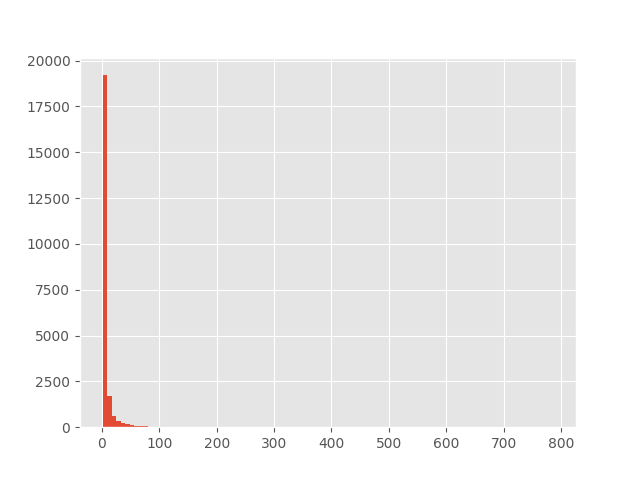
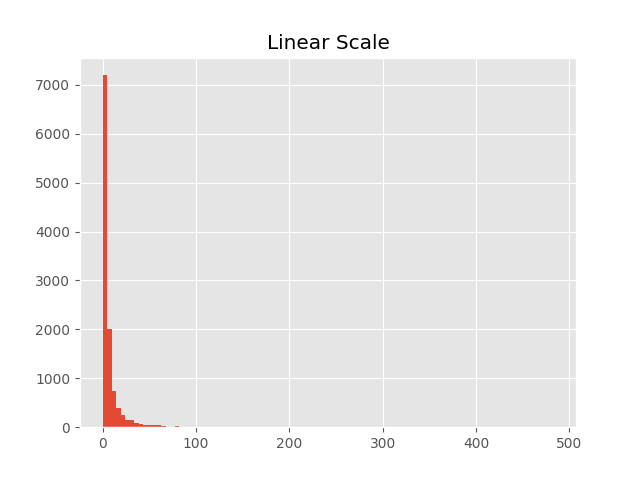
pruning for legit genres, added deg distribution graphs

diff --git a/na_spotify_project/scripts/basic_stats.py b/na_spotify_project/scripts/basic_stats.py
@@ -27,35 +27,65 @@ def degree_distribution_plotter(graph_object):
     plt.style.use('ggplot')
     fig1, axes1 = plt.subplots()
     axes1.hist(degrees_array, bins = 100)
+    axes1.set_title("Linear Scale")
     fig1.savefig("degree_hist.png")
 
     # some basic stats
+    print(f"number of nodes:\tN = {len(graph_object.nodes())}")
     print(f"average degree:\t\tk = {degrees_array.mean()}")
     print(f"number of edges:\tE = {degrees_array.mean() * len(degrees_array) / 2}")
     print(f"max degree:\t\tmax k = {degrees_array.max()}")
     print(f"min degree:\t\tmin k = {degrees_array.min()}")
     print(f"median degree: \t\tmedian k = {np.median(degrees_array)}")
 
-    # build list for degree distribution
+    # build list for cummulative degree distribution
     element_counter = collections.Counter(degrees_array)
     degrees_count_array = np.zeros(degrees_array.max()+1, dtype = 'float64')
     for key, value in element_counter.items():
         degrees_count_array[key] = value
     array_for_log_log_plot = np.flip(np.cumsum(np.flip(degrees_count_array[1:])) / np.sum(degrees_count_array))
-    #print(array_for_log_log_plot)
 
+    # build similar powerlaw
+    # build and plot degree distribution 
+    x = []
+    y = []
+    ordered_count_dict = collections.OrderedDict(sorted(element_counter.items()))
+    for key, value in ordered_count_dict.items():
+        x.append(key)
+        y.append(value)
+
+    x_array = np.array(x, dtype = "int32")
+    y_array = np.array(y, dtype = "int32")
+    p_y = y_array / np.sum(y_array)
+
+    fig2, axes2 = plt.subplots()
+    axes2.plot(x, p_y, 'ro')
+    axes2.set_title('Degree Distribution Linear Scale')
+    fig2.savefig('deg_dist_lin.png')
+
+    fig2, axes2 = plt.subplots()
+    axes2.loglog(x, p_y, 'ro')
+    axes2.set_title('Degree Distribution Log-log Scale')
+    fig2.savefig('deg_dist_log.png')
+
+    # plot cummulative on log-log scale
     fig, axes = plt.subplots()
-    axes.loglog(array_for_log_log_plot)
-    fig.savefig("degree_dist_log_log_scale.png")
+    axes.loglog(array_for_log_log_plot, lw = 4)
+    axes.loglog()
+    axes.set_title("Log-log scale")
+    fig.savefig("cum_deg_dist_log.png")
 
 def prune_network(graph_object, min_degree = 1):
     """
     Given graph prunes nodes with less than given degree
     """
     nodes_to_prune = []
-    for node in graph_object.nodes():
-        if (graph_object.degree(node) <= min_degree):
-            nodes_to_prune.append(node)
+    for node in graph_object.nodes(data = True):
+        try:
+            if (graph_object.degree(node[0]) <= min_degree) or len(node[1]['genres']) == 0:
+                nodes_to_prune.append(node[0])
+        except KeyError:
+            nodes_to_prune.append(node[0])
 
     for node in nodes_to_prune:
         graph_object.remove_node(node)
